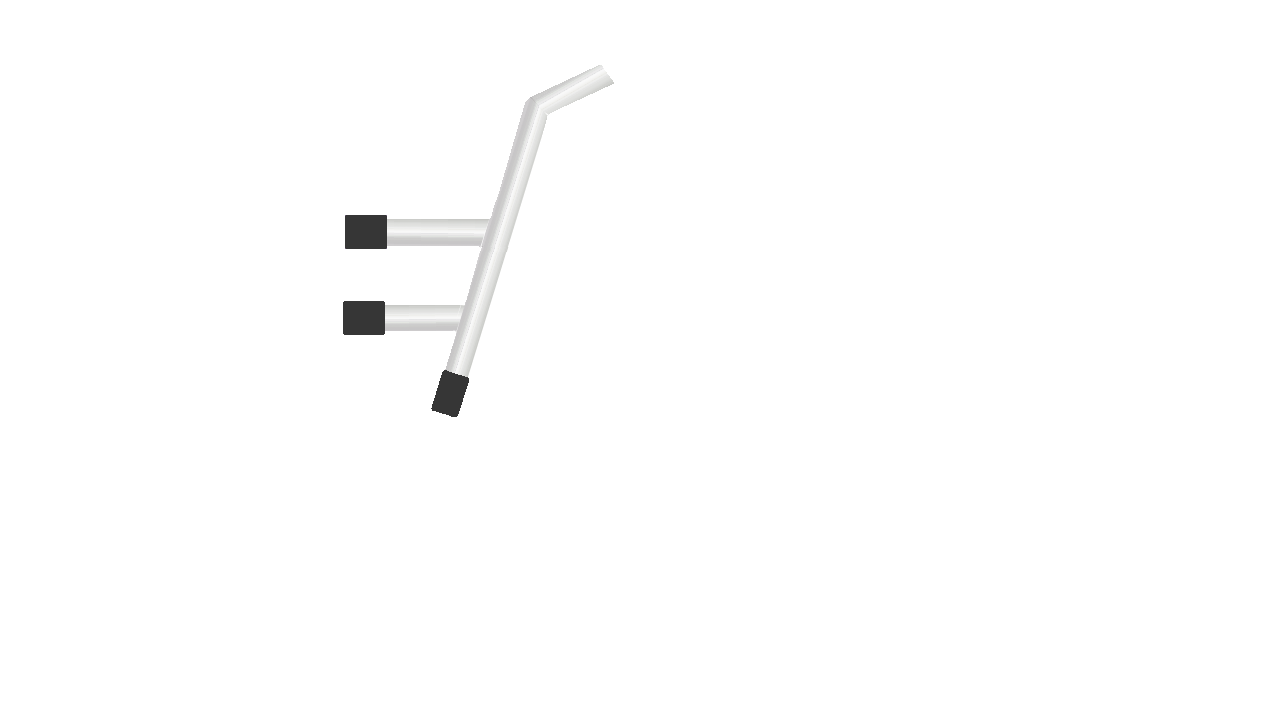
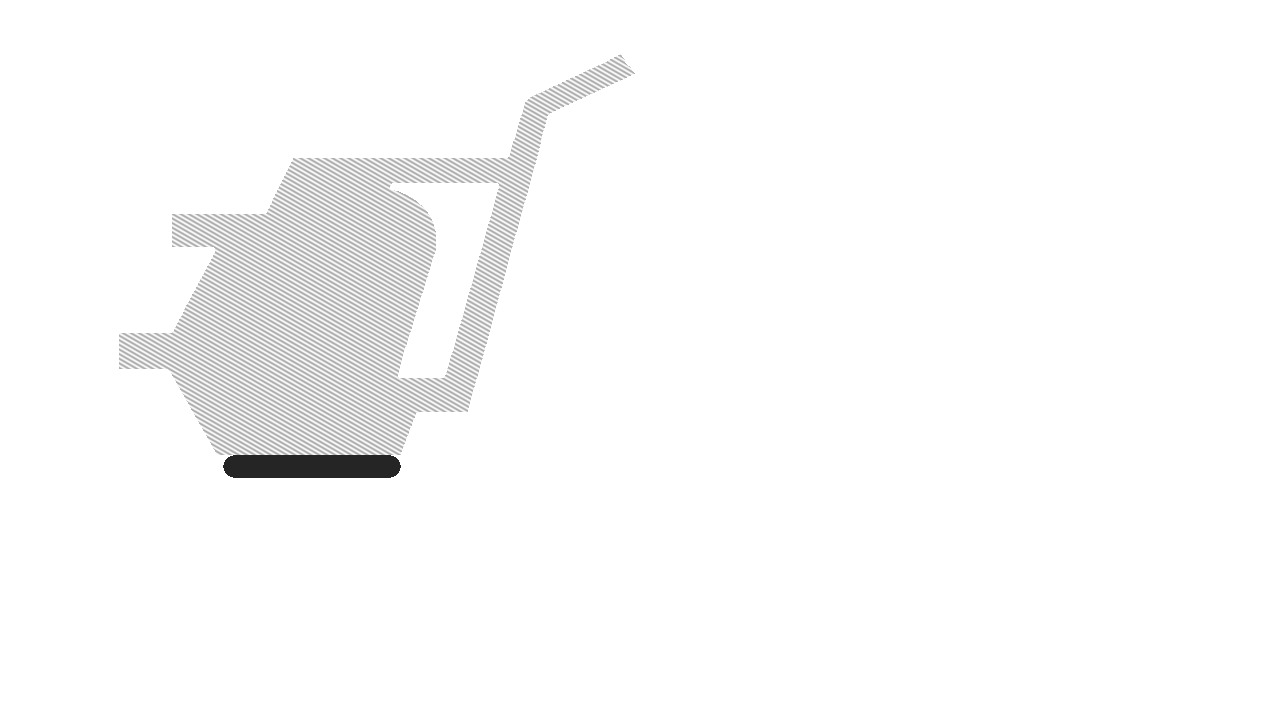
add 2 flippers to underlayer

Changed region(s): [[0.0938, 0.0611, 0.5, 0.6722]]

diff --git a/games/pinball/source/layer.h b/games/pinball/source/layer.h
@@ -22,19 +22,15 @@ class Layer {
         int m_layerID;
 
         // Underlayer
-        vector<float> m_underOuter = {688.6, 12.6, 681.8, 16.1, 649.6, 32.9, 617.5, 49.7, 607.5, 54.8, 597.5, 59.8, 564.8, 73.8, 532.1, 87.9, 525.3, 91.4, 518.4, 94.8, 517.1, 96.3, 515.9, 97.8, 512.4, 109.1, 509.0, 120.3, 509.0, 121.9, 509.0, 123.6, 499.7, 157.6, 490.3, 191.5, 486.7, 199.3, 483.0, 207.0, 481.2, 210.3, 479.4, 212.0, 408.9, 212.2, 338.5, 212.5, 338.5, 232.5, 338.5, 252.5, 404.8, 252.8, 471.0, 253.0, 464.8, 276.7, 458.6, 299.0, 398.1, 299.2, 337.5, 299.5, 337.2, 316.9, 337.0, 334.2, 338.1, 335.6, 339.2, 337.0, 393.1, 337.0, 447.0, 337.0, 447.0, 338.2, 447.0, 339.5, 440.6, 360.0, 434.1, 380.5, 428.0, 397.0, 421.9, 413.5, 422.6, 416.3, 423.2, 419.1, 425.3, 420.4, 427.5, 421.7, 446.3, 426.5, 465.1, 431.3, 466.5, 429.9, 468.0, 428.5, 473.5, 409.6, 478.9, 390.8, 480.0, 389.5, 481.0, 388.2, 485.4, 371.9, 489.8, 355.5, 496.4, 332.5, 503.0, 309.5, 503.0, 308.0, 503.0, 306.5, 515.0, 263.0, 526.9, 219.5, 527.9, 211.5, 528.9, 203.5, 533.6, 187.0, 538.2, 170.5, 545.1, 145.6, 551.9, 120.6, 554.2, 118.3, 556.5, 116.1, 585.8, 102.5, 615.0, 89.0, 616.0, 89.0, 617.0, 89.0, 656.0, 69.5, 695.0, 50.0, 707.5, 50.0, 720.0, 50.0, 720.0, 47.5, 720.0, 45.0, 706.0, 45.0, 692.0, 45.0, 660.7, 60.6, 629.5, 76.3, 590.1, 94.6, 550.6, 113.0, 549.1, 114.5, 547.6, 116.0, 540.4, 142.2, 533.2, 168.5, 528.1, 186.5, 522.9, 204.5, 519.6, 217.0, 516.2, 229.5, 508.0, 259.0, 499.9, 288.5, 496.5, 300.0, 493.2, 311.5, 485.6, 340.0, 478.1, 368.5, 472.1, 388.5, 466.2, 408.5, 464.0, 415.7, 461.9, 423.0, 446.6, 419.0, 431.8, 415.1, 436.1, 399.0, 441.0, 383.5, 448.6, 358.7, 456.2, 333.9, 455.6, 332.4, 455.1, 331.0, 399.5, 331.0, 344.0, 331.0, 344.0, 318.0, 344.0, 305.0, 404.4, 305.0, 464.7, 305.0, 466.8, 298.2, 468.9, 291.5, 474.5, 271.2, 480.1, 251.0, 479.8, 248.7, 479.5, 246.5, 412.3, 246.2, 345.0, 246.0, 345.0, 232.5, 345.0, 219.0, 417.5, 219.0, 490.0, 219.0, 490.9, 216.7, 491.8, 214.5, 495.8, 202.0, 499.9, 189.5, 512.5, 146.0, 525.1, 102.5, 527.8, 99.8, 530.5, 97.1, 564.8, 81.1, 599.1, 65.0, 641.2, 43.4, 682.5, 21.7, 691.4, 17.4, 700.4, 13.0, 710.2, 13.0, 720.0, 13.0, 720.0, 11.0, 720.0, 9.0, 707.8, 9.0, 695.5, 9.1, 688.6, 12.6};
-        /*
-        vector<float> m_under1 = {531.4, 274.8, 526.3, 281.6, 527.7, 283.6, 529.2, 285.5, 532.5, 292.5, 535.8, 299.5, 537.4, 307.2, 539.0, 314.9, 539.0, 320.5, 539.0, 326.1, 537.4, 333.8, 535.8, 341.5, 532.5, 348.5, 529.2, 355.5, 527.7, 357.4, 526.3, 359.4, 531.4, 366.2, 536.4, 373.0, 538.1, 373.0, 539.7, 373.0, 542.2, 369.2, 544.8, 365.4, 547.4, 360.2, 550.0, 355.1, 552.4, 347.6, 554.9, 340.1, 556.0, 330.2, 557.2, 320.3, 556.0, 310.5, 554.8, 300.8, 552.4, 293.3, 550.0, 285.9, 547.4, 280.8, 544.8, 275.6, 542.2, 271.8, 539.7, 268.0, 538.1, 268.0, 536.4, 268.0, 531.4, 274.8};
-        vector<float> m_under2 = {460.0, 234.1, 453.5, 234.9, 447.5, 236.6, 441.5, 238.2, 434.2, 241.6, 426.8, 245.0, 420.7, 249.4, 414.5, 253.8, 408.4, 260.2, 402.2, 266.6, 398.2, 272.8, 394.2, 279.1, 391.2, 286.3, 388.3, 293.5, 387.6, 296.2, 387.0, 299.0, 396.8, 299.0, 406.6, 299.0, 409.3, 292.7, 412.0, 286.5, 417.0, 279.8, 421.9, 273.1, 427.7, 268.5, 433.5, 263.9, 441.5, 260.0, 449.5, 256.1, 457.2, 254.6, 464.9, 253.0, 470.7, 253.0, 476.5, 253.0, 483.0, 254.5, 489.5, 255.9, 491.8, 253.0, 494.1, 250.2, 497.5, 244.6, 500.8, 239.0, 500.2, 238.6, 499.5, 238.2, 494.0, 236.7, 488.5, 235.1, 480.0, 234.1, 471.6, 233.0, 469.0, 233.1, 466.5, 233.3, 460.0, 234.1};
-        vector<float> m_under3 = {387.6, 344.7, 388.3, 347.5, 391.2, 354.7, 394.2, 361.9, 398.2, 368.2, 402.2, 374.4, 408.4, 380.8, 414.5, 387.2, 420.5, 391.5, 426.5, 395.8, 431.7, 398.4, 436.9, 401.0, 444.3, 403.4, 451.8, 405.8, 461.2, 407.0, 470.7, 408.1, 479.6, 407.0, 488.5, 405.9, 494.0, 404.3, 499.5, 402.8, 500.2, 402.4, 500.8, 402.0, 497.5, 396.4, 494.1, 390.8, 491.8, 388.0, 489.5, 385.1, 483.0, 386.5, 476.5, 388.0, 470.7, 388.0, 464.9, 388.0, 457.2, 386.4, 449.5, 384.9, 441.5, 381.0, 433.5, 377.1, 427.7, 372.5, 421.9, 367.9, 417.0, 361.2, 412.0, 354.5, 409.3, 348.2, 406.6, 342.0, 396.8, 342.0, 387.0, 342.0, 387.6, 344.7};
-        */
+        vector<float> m_underOuter = {688.6, 12.6, 681.8, 16.1, 649.6, 32.9, 617.5, 49.7, 607.5, 54.8, 597.5, 59.8, 564.8, 73.8, 532.1, 87.9, 525.8, 91.1, 519.5, 94.2, 517.8, 95.7, 516.2, 97.1, 503.9, 124.1, 491.7, 151.0, 454.4, 151.0, 417.1, 151.0, 416.6, 151.9, 416.0, 152.8, 410.8, 154.1, 405.5, 155.3, 399.0, 157.5, 392.5, 159.8, 390.8, 160.5, 389.0, 161.2, 389.0, 143.3, 389.0, 125.4, 387.8, 124.2, 386.6, 123.0, 359.5, 123.0, 332.4, 123.0, 331.2, 124.2, 330.0, 125.4, 330.0, 153.6, 330.0, 181.8, 326.8, 183.3, 323.5, 184.8, 293.5, 195.6, 263.5, 206.5, 214.5, 207.0, 165.5, 207.5, 165.5, 230.5, 165.5, 253.5, 185.1, 254.0, 204.7, 254.5, 198.2, 266.0, 191.8, 277.5, 182.9, 294.5, 174.1, 311.5, 170.3, 318.7, 166.5, 326.0, 139.5, 326.2, 112.5, 326.5, 112.5, 351.0, 112.5, 375.5, 138.5, 375.8, 164.5, 376.0, 187.8, 417.4, 211.1, 458.8, 212.9, 460.4, 214.6, 462.0, 234.0, 462.2, 253.4, 462.5, 271.2, 499.9, 288.9, 537.2, 290.1, 538.6, 291.2, 540.0, 310.6, 540.0, 330.0, 540.0, 330.2, 562.8, 330.5, 585.5, 359.5, 585.5, 388.5, 585.5, 388.8, 562.7, 389.0, 540.0, 503.3, 540.0, 617.5, 540.0, 669.3, 488.2, 721.0, 436.5, 721.0, 351.0, 721.0, 265.5, 663.7, 208.2, 606.5, 151.0, 576.8, 151.0, 547.0, 151.0, 546.4, 148.3, 545.7, 145.6, 547.0, 142.6, 548.2, 139.5, 549.7, 135.5, 551.2, 131.5, 554.1, 126.3, 557.0, 121.2, 618.3, 90.0, 679.5, 58.7, 682.0, 57.0, 684.5, 55.3, 690.8, 52.1, 697.0, 49.0, 697.0, 46.0, 697.0, 43.1, 693.3, 44.6, 689.6, 46.2, 659.5, 61.2, 629.5, 76.3, 590.2, 94.6, 550.8, 112.9, 549.0, 114.5, 547.2, 116.1, 539.5, 134.5, 531.8, 152.9, 532.2, 155.2, 532.5, 157.5, 567.5, 157.8, 602.5, 158.0, 657.3, 212.8, 712.0, 267.5, 712.0, 280.5, 712.0, 293.5, 692.0, 313.5, 672.0, 333.5, 672.0, 352.0, 672.0, 370.5, 692.0, 390.5, 712.0, 410.5, 712.0, 422.5, 712.0, 434.5, 662.7, 483.8, 613.5, 533.0, 497.7, 533.0, 382.0, 533.0, 382.0, 556.0, 382.0, 579.0, 359.5, 579.0, 337.0, 579.0, 337.0, 556.0, 337.0, 533.0, 315.8, 532.8, 294.6, 532.5, 276.9, 495.2, 259.1, 457.8, 257.9, 456.4, 256.8, 455.0, 236.8, 454.8, 216.8, 454.5, 193.7, 413.4, 170.5, 372.3, 169.1, 370.6, 167.8, 369.0, 143.4, 369.0, 119.0, 369.0, 119.0, 351.0, 119.0, 333.0, 145.4, 333.0, 171.8, 333.0, 172.8, 331.7, 173.8, 330.5, 181.4, 315.6, 189.0, 300.8, 202.1, 276.4, 215.2, 252.1, 214.8, 249.8, 214.5, 247.5, 193.2, 247.2, 172.0, 247.0, 172.0, 230.5, 172.0, 214.0, 218.5, 214.0, 265.1, 214.0, 267.8, 212.6, 270.5, 211.3, 303.8, 199.9, 337.0, 188.6, 337.0, 159.3, 337.0, 130.0, 359.5, 130.0, 382.0, 130.0, 382.0, 151.5, 382.0, 173.0, 404.5, 165.5, 426.2, 158.0, 463.0, 158.0, 499.7, 158.0, 512.5, 130.1, 525.2, 102.2, 527.8, 99.7, 530.5, 97.2, 564.8, 81.1, 599.1, 65.0, 641.2, 43.4, 682.5, 21.7, 691.4, 17.4, 700.4, 13.0, 709.2, 13.0, 718.0, 13.0, 718.0, 11.0, 718.0, 9.0, 706.8, 9.0, 695.5, 9.1, 688.6, 12.6};
+        vector<float> m_under1 = {398.7, 301.7, 398.0, 302.3, 398.0, 352.7, 398.0, 403.1, 399.6, 403.7, 401.2, 404.3, 426.6, 378.9, 452.0, 353.5, 452.0, 352.5, 452.0, 351.5, 426.7, 326.2, 401.5, 301.0, 400.4, 301.0, 399.3, 301.0, 398.7, 301.7};
         vector<vector<float>> m_underLayer = {
-            m_underOuter/*, m_under1, m_under2, m_under3*/
+            m_underOuter, m_under1
         };
 
         // Launch tube layer
         vector<float> m_tubeLeft = {0.0, 540.8, 0.0, 675.0, 210.3, 675.0, 420.7, 675.0, 423.0, 672.5, 425.3, 670.0, 418.5, 655.4, 411.6, 640.8, 394.9, 628.9, 378.1, 617.0, 376.8, 617.0, 375.5, 617.0, 357.0, 635.5, 338.5, 654.0, 174.3, 654.0, 10.0, 654.0, 10.0, 641.0, 10.0, 628.0, 42.3, 628.0, 74.7, 628.0, 76.5, 626.0, 78.3, 624.1, 39.5, 515.8, 0.8, 407.5, 3.97459842816e-14, 540.8};
-        vector<float> m_tubeLeftUpper = {988.0, 542.3, 977.5, 552.6, 942.0, 584.0, 906.5, 615.4, 896.5, 621.8, 886.5, 628.1, 868.5, 637.0, 850.5, 645.9, 840.5, 649.6, 830.5, 653.3, 819.0, 656.9, 807.5, 660.5, 706.2, 660.8, 604.9, 661.0, 589.0, 658.6, 573.0, 656.1, 561.3, 653.4, 549.5, 650.8, 538.0, 647.3, 526.5, 643.9, 519.0, 640.5, 511.5, 637.2, 496.0, 630.2, 480.5, 623.2, 470.5, 619.9, 460.5, 616.5, 447.0, 616.5, 433.5, 616.5, 433.2, 618.3, 432.8, 620.2, 435.2, 624.8, 437.5, 629.5, 444.1, 641.5, 450.6, 653.5, 454.1, 660.4, 457.5, 667.2, 460.8, 671.1, 464.2, 675.0, 705.3, 674.7, 946.5, 674.5, 958.6, 671.8, 970.6, 669.1, 980.6, 665.6, 990.5, 662.1, 997.5, 659.0, 1004.5, 655.9, 1013.3, 650.8, 1022.1, 645.8, 1030.3, 639.7, 1038.5, 633.6, 1049.4, 623.1, 1060.2, 612.5, 1066.4, 604.5, 1072.6, 596.5, 1075.3, 592.4, 1078.0, 588.4, 1078.0, 587.3, 1078.0, 586.2, 1074.6, 584.6, 1071.2, 583.0, 1070.2, 583.0, 1069.2, 583.0, 1066.9, 586.7, 1064.6, 590.5, 1060.1, 596.5, 1055.6, 602.5, 1043.6, 614.9, 1031.5, 627.2, 1022.5, 633.3, 1013.5, 639.4, 998.5, 646.6, 983.5, 653.8, 972.5, 656.8, 961.5, 659.9, 951.2, 660.9, 940.9, 662.0, 928.0, 662.0, 915.0, 662.0, 915.0, 646.0, 915.0, 630.0, 920.3, 630.0, 925.6, 630.0, 935.1, 628.4, 944.5, 626.8, 954.0, 623.8, 963.5, 620.8, 973.7, 616.0, 983.9, 611.2, 992.7, 605.4, 1001.5, 599.7, 1007.5, 595.2, 1013.5, 590.6, 1025.3, 579.1, 1037.0, 567.7, 1037.0, 566.5, 1037.0, 565.4, 1019.6, 548.7, 1002.2, 532.0, 1000.3, 532.0, 998.5, 532.0, 988.0, 542.3};
+        vector<float> m_tubeLeftUpper = {988.0, 542.3, 977.5, 552.6, 942.0, 584.0, 906.5, 615.4, 897.0, 621.4, 887.5, 627.4, 873.5, 634.6, 859.5, 641.8, 850.5, 645.6, 841.5, 649.3, 830.0, 653.2, 818.5, 657.1, 803.5, 659.1, 788.5, 661.0, 696.5, 661.0, 604.5, 661.0, 588.7, 658.5, 573.0, 656.1, 561.2, 653.4, 549.5, 650.8, 538.2, 647.4, 526.9, 643.9, 518.9, 640.0, 511.0, 636.0, 499.3, 628.3, 487.5, 620.6, 481.0, 617.8, 474.5, 615.1, 453.2, 615.0, 431.9, 615.0, 431.4, 616.4, 430.9, 617.7, 433.9, 622.6, 437.0, 627.4, 443.8, 641.3, 450.6, 653.5, 454.1, 660.4, 457.5, 667.2, 460.8, 671.1, 464.2, 675.0, 705.3, 674.7, 946.5, 674.5, 958.6, 671.8, 970.6, 669.1, 980.6, 665.6, 990.5, 662.1, 997.5, 659.0, 1004.5, 655.9, 1013.3, 650.8, 1022.1, 645.8, 1030.3, 639.7, 1038.5, 633.6, 1048.9, 623.6, 1059.2, 613.5, 1065.2, 606.2, 1071.2, 598.9, 1067.9, 595.4, 1064.6, 592.0, 1058.3, 598.7, 1053.2, 605.5, 1038.8, 619.5, 1024.5, 633.5, 1013.2, 639.9, 1001.8, 646.3, 992.5, 650.1, 983.1, 653.9, 972.3, 656.9, 961.5, 659.9, 951.2, 660.9, 940.9, 662.0, 928.0, 662.0, 915.0, 662.0, 915.0, 646.0, 915.0, 630.0, 920.3, 630.0, 925.6, 630.0, 935.1, 628.4, 944.5, 626.8, 954.0, 623.8, 963.5, 620.8, 973.7, 616.0, 983.9, 611.2, 992.7, 605.4, 1001.5, 599.7, 1007.5, 595.2, 1013.5, 590.6, 1025.3, 579.1, 1037.0, 567.7, 1037.0, 566.5, 1037.0, 565.4, 1019.6, 548.7, 1002.2, 532.0, 1000.3, 532.0, 998.5, 532.0, 988.0, 542.3};
         vector<float> m_tubeRight = {0.0, 132.7, 0.0, 265.3, 39.5, 156.2, 78.3, 47.9, 76.5, 46.0, 74.7, 44.0, 42.3, 44.0, 10.0, 44.0, 10.0, 31.0, 10.0, 18.0, 173.5, 18.0, 337.0, 18.0, 364.0, 45.0, 391.0, 72.0, 397.9, 72.0, 404.9, 72.0, 411.2, 68.6, 417.5, 65.2, 429.5, 58.6, 441.5, 52.0, 456.5, 45.6, 471.5, 39.2, 485.0, 34.7, 498.5, 30.2, 513.0, 26.6, 527.5, 23.0, 540.6, 21.0, 553.6, 19.0, 567.6, 18.0, 581.5, 17.0, 603.3, 16.3, 625.0, 15.7, 625.0, 31.2, 625.0, 46.8, 623.4, 47.4, 621.8, 48.0, 620.2, 48.0, 618.5, 48.0, 613.5, 50.6, 608.5, 53.2, 605.8, 55.8, 603.0, 58.4, 603.0, 59.7, 603.0, 61.1, 604.7, 63.8, 606.5, 66.5, 612.3, 74.5, 618.2, 82.5, 619.1, 82.8, 620.1, 83.2, 638.8, 75.1, 657.5, 67.0, 673.0, 61.1, 688.5, 55.2, 699.0, 50.7, 709.5, 46.3, 709.5, 44.9, 709.5, 43.5, 680.3, 43.2, 651.0, 43.0, 651.0, 28.5, 651.0, 14.0, 807.8, 14.3, 964.5, 14.6, 974.5, 16.3, 984.5, 18.1, 996.0, 20.6, 1007.5, 23.1, 1022.5, 28.1, 1037.4, 33.1, 1049.5, 38.9, 1061.5, 44.8, 1070.5, 50.8, 1079.5, 56.8, 1087.6, 63.8, 1095.7, 70.8, 1102.2, 78.7, 1108.7, 86.5, 1113.5, 93.8, 1118.2, 101.2, 1121.5, 108.3, 1124.8, 115.5, 1127.3, 124.5, 1129.9, 133.5, 1132.7, 146.0, 1135.5, 158.5, 1135.8, 339.0, 1136.1, 519.5, 1135.0, 530.5, 1133.9, 541.5, 1131.5, 552.5, 1129.2, 563.5, 1126.0, 573.0, 1122.9, 582.5, 1117.0, 594.8, 1111.1, 607.1, 1105.4, 615.8, 1099.8, 624.5, 1094.2, 631.5, 1088.6, 638.5, 1082.5, 644.9, 1076.5, 651.3, 1067.5, 658.8, 1058.5, 666.4, 1048.9, 672.7, 1039.2, 679.0, 1026.9, 684.9, 1014.5, 690.9, 1005.0, 694.0, 995.5, 697.2, 984.5, 699.8, 973.5, 702.4, 486.8, 702.7, -1.13686837722e-13, 703.0, -1.13686837722e-13, 711.5, -1.13686837722e-13, 720.0, 576.0, 720.0, 1152.0, 720.0, 1152.0, 360.0, 1152.0, 0.0, 576.0, 0.0, 0.0, 0.0, 0.0, 132.7};
         vector<vector<float>> m_launchTubeLayer = {
             m_tubeLeft, m_tubeRight, m_tubeLeftUpper

diff --git a/games/pinball/source/flipper.cpp b/games/pinball/source/flipper.cpp
@@ -1,19 +1,17 @@
 #include "flipper.h"
 
-Flipper::Flipper(C2DRenderer* renderer, b2World& world, bool rightFlipper) {
-    float yOffset = rightFlipper ? 0.02: -0.02;
-    if (rightFlipper) {
-        m_key = Input::Key::Fire6;
-        m_x = m_rightX;
-        m_y = m_rightY;
-        m_rotateDirection = -1.0f;
-    }
-    else {
+Flipper::Flipper(C2DRenderer* renderer, b2World& world, int flipperID) {
+    float yOffset = flipperID ? 0.02: -0.02;
+    if (flipperID % 2 == 0) {
         m_key = Input::Key::Fire5;
-        m_x = m_leftX;
-        m_y = m_leftY;
         m_rotateDirection = 1.0f;
     }
+    else {
+        m_key = Input::Key::Fire6;
+        m_rotateDirection = -1.0f;
+    }
+    m_x = m_positions.at(flipperID * 2);
+    m_y = m_positions.at(flipperID * 2 + 1);
     b2BodyDef bd;
     bd.position.Set(m_x, m_y + yOffset);
     m_pivot = world.CreateBody(&bd);
@@ -24,6 +22,8 @@ Flipper::Flipper(C2DRenderer* renderer, b2World& world, bool rightFlipper) {
 #if DEBUG
     m_pivotShape = new CircleShape(0.18f * g_graphicsScale);
     m_pivotShape->setOrigin(Origin::Center);
+    if (flipperID > 1)
+        m_pivotShape->setFillColor(Color::Cyan);
     renderer->add(m_pivotShape);
 #endif
 
@@ -31,8 +31,14 @@ Flipper::Flipper(C2DRenderer* renderer, b2World& world, bool rightFlipper) {
     fd.friction = 0.6f;
     fd.density = 1.0f;
     fd.shape = &circleShape;
-    fd.filter.maskBits = 0xFFFF;
-    fd.filter.categoryBits = 0xFFFF;
+    if (flipperID > 1) {
+        fd.filter.maskBits = 1;
+        fd.filter.categoryBits = 1;
+    }
+    else {
+        fd.filter.maskBits = 1 << 2;
+        fd.filter.categoryBits = 1 << 2;
+    }
     m_pivot->CreateFixture(&fd);
 
     // Flipper body
@@ -41,7 +47,7 @@ Flipper::Flipper(C2DRenderer* renderer, b2World& world, bool rightFlipper) {
     bd.bullet = true;
     m_body = world.CreateBody(&bd);
 
-    if (rightFlipper)
+    if (flipperID % 2 == 1)
         m_body->SetTransform(bd.position, -M_PI);
 
     b2Vec2* vs = getVertexArray(m_points);
@@ -65,10 +71,15 @@ Flipper::Flipper(C2DRenderer* renderer, b2World& world, bool rightFlipper) {
     m_cshape = new ConvexShape();
     m_cshape->getVertexArray()->setPrimitiveType(PrimitiveType::LineStrip);
     addPointsToShape(m_cshape, m_points);
+    if (flipperID > 1)
+        m_cshape->setFillColor(Color::Cyan);
     renderer->add(m_cshape);
 #else
     m_texture = new C2DTexture(renderer->getIo()->getDataReadPath() + "pinballnx/flipper.png");
-    m_texture->setLayer(6);
+    if (flipperID > 1)
+        m_texture->setLayer(2);
+    else
+        m_texture->setLayer(6);
     renderer->add(m_texture);
 #endif
 }

diff --git a/games/pinball/source/balllock.h b/games/pinball/source/balllock.h
@@ -16,11 +16,10 @@ class BallLock {
         int m_layerID;
         b2Fixture* m_fixture;
         vector<float> m_upperLock = {843.5, 532.5, 835.8, 540.9, 834.4, 543.6, 833.0, 546.2, 833.0, 548.1, 833.0, 549.9, 850.2, 564.0, 867.4, 578.0, 869.5, 578.0, 871.5, 578.0, 881.8, 567.7, 892.0, 557.5, 892.0, 555.2, 892.0, 553.0, 873.8, 538.5, 855.5, 524.0, 853.3, 524.0, 851.2, 524.0, 843.5, 532.5};
-        vector<float> m_lowerLock1 = {344.0, 232.0, 344.0, 251.0, 355.5, 251.0, 367.0, 251.0, 367.0, 232.0, 367.0, 213.0, 355.5, 213.0, 344.0, 213.0, 344.0, 232.0};
-        vector<float> m_lowerLock2 = {344.0, 317.0, 344.0, 336.0, 355.5, 336.0, 367.0, 336.0, 367.0, 317.0, 367.0, 298.0, 355.5, 298.0, 344.0, 298.0, 344.0, 317.0};
-        vector<float> m_lowerLock3 = {440.6, 371.2, 439.2, 373.5, 433.5, 391.3, 427.9, 409.2, 428.2, 412.3, 428.5, 415.3, 431.5, 417.0, 434.5, 418.7, 446.5, 423.3, 458.6, 428.0, 461.7, 428.0, 464.8, 428.0, 466.0, 426.6, 467.2, 425.1, 471.1, 409.8, 475.1, 394.5, 476.2, 388.2, 477.4, 381.9, 476.4, 380.2, 475.3, 378.5, 462.4, 373.8, 449.5, 369.2, 445.8, 369.1, 442.0, 369.0, 440.6, 371.2};
+        vector<float> m_lowerLock1 = {172.0, 229.0, 172.0, 248.0, 183.5, 248.0, 195.0, 248.0, 195.0, 229.0, 195.0, 210.0, 183.5, 210.0, 172.0, 210.0, 172.0, 229.0};
+        vector<float> m_lowerLock2 = {118.0, 351.0, 118.0, 370.0, 129.5, 370.0, 141.0, 370.0, 141.0, 351.0, 141.0, 332.0, 129.5, 332.0, 118.0, 332.0, 118.0, 351.0};
         vector<vector<float>> m_points = {
-            m_upperLock, m_lowerLock1, m_lowerLock2, m_lowerLock3
+            m_upperLock, m_lowerLock1, m_lowerLock2
         };
 };
 

diff --git a/games/pinball/source/table.cpp b/games/pinball/source/table.cpp
@@ -6,8 +6,10 @@ Table::Table(C2DRenderer* renderer, b2World& world) :
     m_bumpers(),
     m_pinballs(),
     m_scoreboard(renderer),
-    m_leftFlipper(renderer, world, false),
-    m_rightFlipper(renderer, world, true),
+    m_leftFlipper(renderer, world, 0),
+    m_rightFlipper(renderer, world, 1),
+    m_leftFlipper2(renderer, world, 2),
+    m_rightFlipper2(renderer, world, 3),
     m_plunger(renderer, world)
 {
     m_b2world = &world;
@@ -82,9 +84,6 @@ Table::Table(C2DRenderer* renderer, b2World& world) :
     BallLock* underBallLock2 = new BallLock(renderer, world, 0, 2);
     m_ballLocks.push_back(underBallLock2);
 
-    BallLock* underBallLock3 = new BallLock(renderer, world, 0, 3);
-    m_ballLocks.push_back(underBallLock3);
-
     OptWall* leftRailWall = new OptWall(renderer, world, 0, 3);
     m_optWalls.push_back(leftRailWall);
 
@@ -107,6 +106,13 @@ Table::Table(C2DRenderer* renderer, b2World& world) :
 
     Bumper* bumper3 = new Bumper(renderer, world, 2, -1, 9.25, 3.0);
     m_bumpers.push_back(bumper3);
+
+    // Under layer bumpers
+    Bumper* bumper4 = new Bumper(renderer, world, 0, -1, 6.1, 2.5);
+    m_bumpers.push_back(bumper4);
+
+    Bumper* bumper5 = new Bumper(renderer, world, 0, -1, 6.1, 4.5);
+    m_bumpers.push_back(bumper5);
 
     // Bumpers for return area bumpers
     Bumper* bumperLeftUpper = new Bumper(renderer, world, 2, 0);
@@ -243,6 +249,8 @@ void Table::update(unsigned int keys) {
     
     m_leftFlipper.update(keys);
     m_rightFlipper.update(keys);
+    m_leftFlipper2.update(keys);
+    m_rightFlipper2.update(keys);
     m_plunger.update(keys);
     
 

diff --git a/games/pinball/source/optwall.h b/games/pinball/source/optwall.h
@@ -24,14 +24,14 @@ class OptWall {
 
         vector<float> m_leftRailWall = {1038.0, 303.1, 1033.5, 305.2, 1026.5, 307.1, 1019.5, 309.0, 999.2, 309.0, 978.9, 309.0, 975.4, 310.5, 971.9, 312.0, 972.2, 314.7, 972.5, 317.5, 987.0, 317.8, 1001.5, 318.1, 1009.8, 317.1, 1018.1, 316.1, 1021.3, 314.6, 1024.5, 313.2, 1030.0, 312.0, 1035.5, 310.7, 1038.0, 309.3, 1040.5, 307.9, 1043.5, 306.1, 1046.5, 304.3, 1046.5, 302.9, 1046.5, 301.5, 1044.5, 301.3, 1042.5, 301.0, 1038.0, 303.1};
         vector<float> m_underLayerLock1 = {782.5, 9.0, 779.5, 9.7, 752.5, 21.7, 725.5, 33.7, 715.0, 38.1, 704.5, 42.5, 704.5, 44.5, 704.5, 46.5, 706.8, 46.8, 709.1, 47.2, 725.3, 40.2, 741.5, 33.3, 765.8, 23.5, 790.2, 13.7, 790.7, 12.3, 791.2, 11.0, 790.0, 9.5, 788.8, 8.0, 787.1, 8.1, 785.5, 8.2, 782.5, 9.0};
-        vector<float> m_underLayerLock2 = {473.4, 247.4, 472.8, 248.9, 473.2, 250.7, 473.5, 252.5, 495.0, 252.5, 516.5, 252.5, 516.5, 249.5, 516.5, 246.5, 495.2, 246.2, 474.0, 246.0, 473.4, 247.4};
+        vector<float> m_underLayerLock2 = {234.7, 227.6, 207.9, 248.2, 208.2, 250.9, 208.5, 253.5, 211.0, 253.8, 213.5, 254.0, 240.3, 233.4, 267.1, 212.8, 266.8, 210.1, 266.5, 207.5, 264.0, 207.2, 261.5, 207.0, 234.7, 227.6};
         vector<vector<float>> m_WallShapes = {
             m_leftRailWall, m_underLayerLock1, m_underLayerLock2
         };
         vector<float> m_positions = {
             972, 301,
             704, 14,
-            481, 246
+            500, 183
         };
 };
 

diff --git a/games/pinball/source/flipper.h b/games/pinball/source/flipper.h
@@ -10,7 +10,7 @@ using namespace std;
 
 class Flipper {
     public:
-        Flipper(C2DRenderer* renderer, b2World& world, bool rightFlipper);
+        Flipper(C2DRenderer* renderer, b2World& world, int flipperID);
         void update(unsigned int keys);
     private:
         float m_rotateDirection;
@@ -24,6 +24,12 @@ class Flipper {
         float m_x;
         float m_y;
         vector<float> m_points = {-16, 0, -10, 93, -6, 99, -2.5, 100, 2.5, 100, 6, 99, 10, 93, 16, 0};
+        vector<float> m_positions = {
+            0.68f, 2.19f,
+            0.68f, 4.51f,
+            3.6f, 1.78f,
+            3.6f, 5.35f
+        };
         b2RevoluteJoint* m_joint;
         ConvexShape* m_cshape;
         C2DTexture* m_texture;

diff --git a/games/pinball/source/bumper.cpp b/games/pinball/source/bumper.cpp
@@ -26,8 +26,7 @@ Bumper::Bumper(C2DRenderer* renderer, b2World& world, int layerID, int shapeID, 
     else {
         float startX = m_centers.at(shapeID).at(0);
         float startY = m_centers.at(shapeID).at(1);
-        if (shapeID > 1) // kickers
-            m_bumpForce = 18.0 * g_displayFrameRate / 60;
+        m_bumpForce = 18.0 * g_displayFrameRate / 60;
         inactiveTextureName = "pinballnx/bumpershape" + std::to_string(shapeID) + "off.png";
         activeTextureName = "pinballnx/bumpershape" + std::to_string(shapeID) + "on.png";
         vector<float> points = m_shapes.at(shapeID);

diff --git a/games/pinball/source/optwall.cpp b/games/pinball/source/optwall.cpp
@@ -28,6 +28,8 @@ OptWall::OptWall(C2DRenderer* renderer, b2World& world, int optWallId, int layer
     m_shapeEnabled->getVertexArray()->setPrimitiveType(PrimitiveType::LineStrip);
     if (layerID == 3)
         m_shapeEnabled->setFillColor(Color::Red);
+    if (layerID == 0)
+        m_shapeEnabled->setFillColor(Color::Cyan);
     renderer->add(m_shapeEnabled);
     m_shapeEnabled->setLayer(layerID * 2 + 1);
 #else

diff --git a/games/pinball/source/table.h b/games/pinball/source/table.h
@@ -48,6 +48,8 @@ class Table : public b2ContactListener {
         Scoreboard m_scoreboard;
         Flipper m_leftFlipper;
         Flipper m_rightFlipper;
+        Flipper m_leftFlipper2;
+        Flipper m_rightFlipper2;
         Plunger m_plunger;
         C2DRenderer* m_renderer;
         // The width of the table, which is the height of the screen.

diff --git a/games/pinball/source/util.h b/games/pinball/source/util.h
@@ -5,7 +5,7 @@
 #include <vector>
 #include "cross2d/c2d.h"
 
-#define DEBUG 0
+#define DEBUG 1
 
 using namespace c2d;
 
